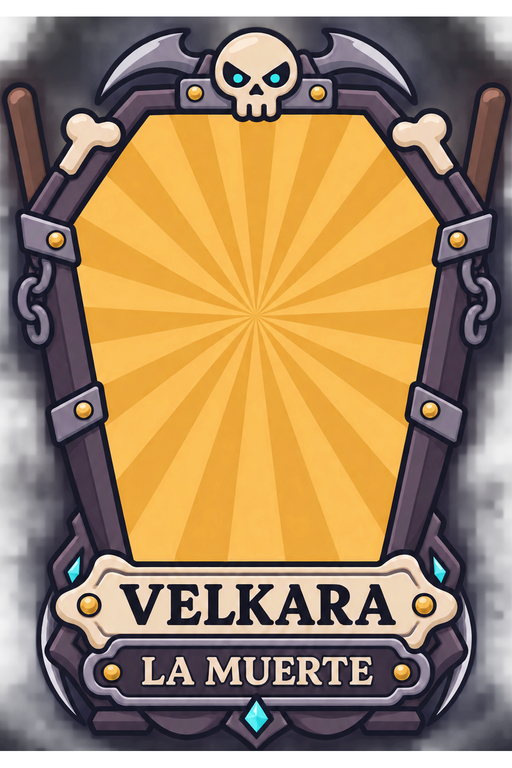
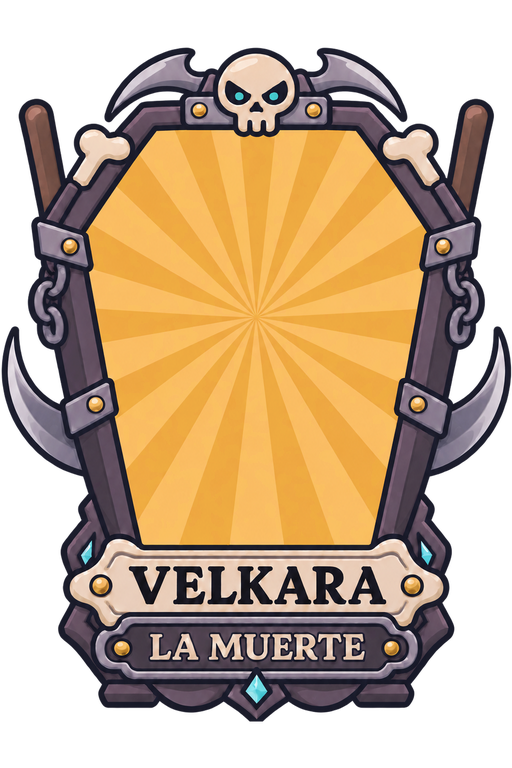
Marcos de 11 unidades más; marcos animados de Zero y Rhysida; Velkara con su marco nuevo
Claude-Session: https://claude.ai/code/session_01JNP7QCwsBCjLSMGndzwo2W

diff --git a/docs/index.html b/docs/index.html
@@ -7948,9 +7948,20 @@ const MARCOS = {
   acorazado: { st: [20.9, 37.1, 58.1, 45.0], z: 1.36 },
   kungfu: { st: [14.2, 28.2, 71.5, 55.6] },
   samurai: { st: [22.3, 24.2, 55.3, 52.5], z: 1.12 },
-  muerte: { st: [16.4, 15.9, 67.4, 56.1], dx: 8 },
+  muerte: { st: [18.8, 17.9, 62.4, 51.9], dx: 8 },
   lobo: { st: [17.2, 19.0, 65.5, 54.8] },
   pistolero: { st: [17.3, 33.5, 65.3, 55.0], z: 1.12 },
+  ivo: { st: [16.1, 40.4, 67.9, 47.3] },
+  mira: { st: [15.8, 26.4, 67.8, 53.7] },
+  rufo: { st: [14.7, 39.9, 70.4, 49.2] },
+  valdrys: { st: [15.2, 35.7, 69.5, 48.5] },
+  ezra: { st: [16.6, 28.4, 66.4, 44.4] },
+  zero: { st: [14, 22, 70, 50], frames: 5, anim: 'sombra' },
+  rhysida: { st: [18.8, 19.8, 62.2, 49.9], frames: 4, anim: 'glitch' },
+  honderillo: { st: [18.8, 21.9, 62.4, 58.9] },
+  grises: { st: [14.6, 27.7, 68.3, 55.5] },
+  ignis: { st: [17.2, 33.2, 65.5, 55.7] },
+  nivea: { st: [16.4, 26.6, 67.1, 52.8] },
 };
 const BARRA_RAR = { comun: 'comun', poco: 'poco', rara: 'rara', epica: 'epica', legendaria: 'legendaria', ascendida: 'ascendida' };
 const GAL = { on: false, sc: null, u: new Map() };
@@ -7959,7 +7970,7 @@ function tarjetaHtml(k) {
   const has = owned().includes(k), rar = RARITY[k] || 'comun', [nm, ep] = nombreEpiteto(k), marco = MARCOS[k];
   const c = has ? rkCoste(k) : null, cp = has ? copiasOf(k) : 0, lv = has ? lvOf(k) : 1, r = has ? rangoOf(k) : 0;
   return '<button type="button" class="tc ' + rar + (has ? '' : ' lock') + (marco ? ' marco' : '') + (has && puedeRango(k) ? ' up' : '') + '" data-k="' + k + '" aria-label="' + (NAMES[k] || k) + (has ? ', nivel ' + lv + ', rango ' + RANGOS[r] : ', bloqueada') + '">'
-    + '<span class="tc-fr"' + (marco ? ' style="background-image:url(img/marcos/' + k + '.png)"' : '') + '>'
+    + '<span class="tc-fr"' + (marco ? ' data-marco="' + k + '" style="background-image:url(img/marcos/' + k + '.png)"' : '') + '>'
     + (marco ? '' : '<span class="tc-nm"><b>' + (has ? nm : '¿?') + '</b>' + (has && ep ? '<small>' + ep + '</small>' : '') + '</span>')
     + '<span class="tc-stage"' + (marco ? ' style="left:' + marco.st[0] + '%;top:' + marco.st[1] + '%;width:' + marco.st[2] + '%;height:' + marco.st[3] + '%"' : '') + '></span></span>'
     + '<span class="tc-cost"><img src="img/tarjetas/coste.png" alt=""><b>' + COST[k] + '</b></span>'
@@ -8016,6 +8027,23 @@ function filtrosHtml() {
   $('f-inv').onclick = () => { FILTRO.inv = !FILTRO.inv; guarda(); };
   $('f-reset').onclick = () => { FILTRO = { rar: '', rk: '', tipo: '', est: '', cost: '', ord: 'coste', inv: false }; guarda(); };
 }
+// marcos animados: Zero (la sombra se desplaza, 5 dibujos en vaivén) y Rhysida (interferencias: casi siempre el limpio y,
+// de vez en cuando, un parpadeo rápido por los que tienen interferencias)
+const MARCO_ANIM = { t: 0 };
+const marcoSrc = (k, i) => 'url(img/marcos/' + k + (i ? '_' + i : '') + '.png)';
+setInterval(() => {
+  MARCO_ANIM.t++;
+  for (const k in MARCOS) {
+    const M = MARCOS[k]; if (!M.frames) continue;
+    let i;
+    if (M.anim === 'sombra') { const n = M.frames, q = Math.floor(MARCO_ANIM.t / 3) % (2 * n - 2); i = q < n ? q : 2 * n - 2 - q; }
+    else { const q = MARCO_ANIM.t % 14; i = q < 3 ? 1 + (Math.floor(MARCO_ANIM.t / 14) + q) % (M.frames - 1) : 0; }
+    if (M.cur === i) continue; M.cur = i;
+    document.querySelectorAll('[data-marco="' + k + '"]').forEach(e => { e.style.backgroundImage = marcoSrc(k, i); });
+  }
+}, 80);
+// los dibujos del marco animado se cargan antes, para que no parpadeen al cambiar
+for (const k in MARCOS) for (let i = 1; i < (MARCOS[k].frames || 0); i++) { const im = new Image(); im.src = 'img/marcos/' + k + '_' + i + '.png'; }
 const _showGal = show;
 show = function (id) { _showGal(id); if (id !== 'ejercito') galStop(); else if (GAL.on) galWake(); };
 function galWake() { const gm = window.__game; if (gm && gm.loop && !gm.loop.running) gm.loop.wake(); }
@@ -8075,7 +8103,7 @@ const MARCO_PROV = { st: [12, 34, 76, 54] };
 function tmInner(k, has = true) {
   const m = MARCOS[k] || MARCO_PROV, [nm, ep] = nombreEpiteto(k), pc = v => (+v.toFixed(2)) + '%', z = m.z || 1, [l, t, w, h] = m.st;
   const L = l - w * (z - 1) / 2 + w * (m.dx || 0) / 100, T = t - h * (z - 1) + h * (m.dy || 0) / 100;   // agrandada desde los pies
-  return '<span class="tm-fr"' + (MARCOS[k] ? ' style="background-image:url(img/marcos/' + k + '.png)"' : '') + '></span>'
+  return '<span class="tm-fr"' + (MARCOS[k] ? ' data-marco="' + k + '" style="background-image:url(img/marcos/' + k + '.png)"' : '') + '></span>'
     + (MARCOS[k] ? '' : '<span class="tm-nm"><b>' + (has ? nm : '¿?') + '</b>' + (has && ep ? '<small>' + ep + '</small>' : '') + '</span>')
     + '<img class="tm-u" data-ret="' + k + '" src="' + (RETRATO[k] || PIXEL) + '" alt="" style="left:' + pc(L) + ';top:' + pc(T) + ';width:' + pc(w * z) + ';height:' + pc(h * z) + (z > 1.3 || m.clip ? ';clip-path:inset(0 ' + pc(Math.max(0, (L + w * z - l - w - 4) / (w * z) * 100)) + ' ' + pc(m.clip ? Math.max(0, (T + h * z - t - h) / (h * z) * 100) : 0) + ' ' + pc(Math.max(0, (l - 4 - L) / (w * z) * 100)) + ')' : '') + '">'
     + '<span class="tm-cost"><b>' + COST[k] + '</b></span>';

diff --git a/prototipos/batalla/galeria.js b/prototipos/batalla/galeria.js
@@ -22,9 +22,20 @@ const MARCOS = {
   acorazado: { st: [20.9, 37.1, 58.1, 45.0], z: 1.36 },
   kungfu: { st: [14.2, 28.2, 71.5, 55.6] },
   samurai: { st: [22.3, 24.2, 55.3, 52.5], z: 1.12 },
-  muerte: { st: [16.4, 15.9, 67.4, 56.1], dx: 8 },
+  muerte: { st: [18.8, 17.9, 62.4, 51.9], dx: 8 },
   lobo: { st: [17.2, 19.0, 65.5, 54.8] },
   pistolero: { st: [17.3, 33.5, 65.3, 55.0], z: 1.12 },
+  ivo: { st: [16.1, 40.4, 67.9, 47.3] },
+  mira: { st: [15.8, 26.4, 67.8, 53.7] },
+  rufo: { st: [14.7, 39.9, 70.4, 49.2] },
+  valdrys: { st: [15.2, 35.7, 69.5, 48.5] },
+  ezra: { st: [16.6, 28.4, 66.4, 44.4] },
+  zero: { st: [14, 22, 70, 50], frames: 5, anim: 'sombra' },
+  rhysida: { st: [18.8, 19.8, 62.2, 49.9], frames: 4, anim: 'glitch' },
+  honderillo: { st: [18.8, 21.9, 62.4, 58.9] },
+  grises: { st: [14.6, 27.7, 68.3, 55.5] },
+  ignis: { st: [17.2, 33.2, 65.5, 55.7] },
+  nivea: { st: [16.4, 26.6, 67.1, 52.8] },
 };
 const BARRA_RAR = { comun: 'comun', poco: 'poco', rara: 'rara', epica: 'epica', legendaria: 'legendaria', ascendida: 'ascendida' };
 const GAL = { on: false, sc: null, u: new Map() };
@@ -33,7 +44,7 @@ function tarjetaHtml(k) {
   const has = owned().includes(k), rar = RARITY[k] || 'comun', [nm, ep] = nombreEpiteto(k), marco = MARCOS[k];
   const c = has ? rkCoste(k) : null, cp = has ? copiasOf(k) : 0, lv = has ? lvOf(k) : 1, r = has ? rangoOf(k) : 0;
   return '<button type="button" class="tc ' + rar + (has ? '' : ' lock') + (marco ? ' marco' : '') + (has && puedeRango(k) ? ' up' : '') + '" data-k="' + k + '" aria-label="' + (NAMES[k] || k) + (has ? ', nivel ' + lv + ', rango ' + RANGOS[r] : ', bloqueada') + '">'
-    + '<span class="tc-fr"' + (marco ? ' style="background-image:url(img/marcos/' + k + '.png)"' : '') + '>'
+    + '<span class="tc-fr"' + (marco ? ' data-marco="' + k + '" style="background-image:url(img/marcos/' + k + '.png)"' : '') + '>'
     + (marco ? '' : '<span class="tc-nm"><b>' + (has ? nm : '¿?') + '</b>' + (has && ep ? '<small>' + ep + '</small>' : '') + '</span>')
     + '<span class="tc-stage"' + (marco ? ' style="left:' + marco.st[0] + '%;top:' + marco.st[1] + '%;width:' + marco.st[2] + '%;height:' + marco.st[3] + '%"' : '') + '></span></span>'
     + '<span class="tc-cost"><img src="img/tarjetas/coste.png" alt=""><b>' + COST[k] + '</b></span>'
@@ -90,6 +101,23 @@ function filtrosHtml() {
   $('f-inv').onclick = () => { FILTRO.inv = !FILTRO.inv; guarda(); };
   $('f-reset').onclick = () => { FILTRO = { rar: '', rk: '', tipo: '', est: '', cost: '', ord: 'coste', inv: false }; guarda(); };
 }
+// marcos animados: Zero (la sombra se desplaza, 5 dibujos en vaivén) y Rhysida (interferencias: casi siempre el limpio y,
+// de vez en cuando, un parpadeo rápido por los que tienen interferencias)
+const MARCO_ANIM = { t: 0 };
+const marcoSrc = (k, i) => 'url(img/marcos/' + k + (i ? '_' + i : '') + '.png)';
+setInterval(() => {
+  MARCO_ANIM.t++;
+  for (const k in MARCOS) {
+    const M = MARCOS[k]; if (!M.frames) continue;
+    let i;
+    if (M.anim === 'sombra') { const n = M.frames, q = Math.floor(MARCO_ANIM.t / 3) % (2 * n - 2); i = q < n ? q : 2 * n - 2 - q; }
+    else { const q = MARCO_ANIM.t % 14; i = q < 3 ? 1 + (Math.floor(MARCO_ANIM.t / 14) + q) % (M.frames - 1) : 0; }
+    if (M.cur === i) continue; M.cur = i;
+    document.querySelectorAll('[data-marco="' + k + '"]').forEach(e => { e.style.backgroundImage = marcoSrc(k, i); });
+  }
+}, 80);
+// los dibujos del marco animado se cargan antes, para que no parpadeen al cambiar
+for (const k in MARCOS) for (let i = 1; i < (MARCOS[k].frames || 0); i++) { const im = new Image(); im.src = 'img/marcos/' + k + '_' + i + '.png'; }
 const _showGal = show;
 show = function (id) { _showGal(id); if (id !== 'ejercito') galStop(); else if (GAL.on) galWake(); };
 function galWake() { const gm = window.__game; if (gm && gm.loop && !gm.loop.running) gm.loop.wake(); }
@@ -149,7 +177,7 @@ const MARCO_PROV = { st: [12, 34, 76, 54] };
 function tmInner(k, has = true) {
   const m = MARCOS[k] || MARCO_PROV, [nm, ep] = nombreEpiteto(k), pc = v => (+v.toFixed(2)) + '%', z = m.z || 1, [l, t, w, h] = m.st;
   const L = l - w * (z - 1) / 2 + w * (m.dx || 0) / 100, T = t - h * (z - 1) + h * (m.dy || 0) / 100;   // agrandada desde los pies
-  return '<span class="tm-fr"' + (MARCOS[k] ? ' style="background-image:url(img/marcos/' + k + '.png)"' : '') + '></span>'
+  return '<span class="tm-fr"' + (MARCOS[k] ? ' data-marco="' + k + '" style="background-image:url(img/marcos/' + k + '.png)"' : '') + '></span>'
     + (MARCOS[k] ? '' : '<span class="tm-nm"><b>' + (has ? nm : '¿?') + '</b>' + (has && ep ? '<small>' + ep + '</small>' : '') + '</span>')
     + '<img class="tm-u" data-ret="' + k + '" src="' + (RETRATO[k] || PIXEL) + '" alt="" style="left:' + pc(L) + ';top:' + pc(T) + ';width:' + pc(w * z) + ';height:' + pc(h * z) + (z > 1.3 || m.clip ? ';clip-path:inset(0 ' + pc(Math.max(0, (L + w * z - l - w - 4) / (w * z) * 100)) + ' ' + pc(m.clip ? Math.max(0, (T + h * z - t - h) / (h * z) * 100) : 0) + ' ' + pc(Math.max(0, (l - 4 - L) / (w * z) * 100)) + ')' : '') + '">'
     + '<span class="tm-cost"><b>' + COST[k] + '</b></span>';

diff --git a/DISENO.md b/DISENO.md
@@ -590,7 +590,7 @@ Arte en bruto en `arte/zero/`; piezas del juego en `docs/img/zero/`.
 
 - Cada unidad tiene su tarjeta: marco, nombre y epíteto, coste (muslo) y, en medio, la unidad de verdad en reposo con su animación.
 - Debajo, la barra del color de su rareza (gris común, verde poco común, azul rara, morado épica, naranja legendaria, rojo ascendida): nivel en el círculo, copias para la siguiente punta en la barra y el escudo de rango a la derecha.
-- Marcos propios (img/marcos/<unidad>.png, 2:3, con el nombre dibujado y el hueco vacío): se registran en `MARCOS` (galeria.js) con el hueco de la unidad y el sitio del coste: el muslo siempre dentro del hueco, en su esquina de arriba a la derecha, sin pisar el marco. Ya tienen marco 17 unidades (Tulio, Ailin, Brynja, Kazú, Odo, Kubi, Elyss, Jhotum, Rodrigo, Fray Tomé, Berta, Gustav, Lin, Hayato, Velkara, Garra y Cole); el hueco de cada marco se mide solo sobre los rayos del fondo y cada figura puede agrandarse (z) o moverse (dx, dy); el muslo del coste va en la esquina de arriba a la izquierda de toda carta, simétrico a la flecha de ascenso; en Tropas, Rhysida va turnando las skins que tengas; las demás llevan el provisional con rayos del color de su rareza.
+- Marcos propios (img/marcos/<unidad>.png, 2:3, con el nombre dibujado y el hueco vacío): se registran en `MARCOS` (galeria.js) con el hueco de la unidad y el sitio del coste: el muslo siempre dentro del hueco, en su esquina de arriba a la derecha, sin pisar el marco. Ya tienen marco 28 unidades; faltan Torque, Anubek, Rhea, Morgana, Tormund, Abaddon, Aurelion, Kaiju Tomo, Nul y X-9. Marcos animados: Zero (5 dibujos, la sombra se desplaza en vaivén) y Rhysida (4: el limpio y parpadeos de interferencia); el hueco de cada marco se mide solo sobre los rayos del fondo y cada figura puede agrandarse (z) o moverse (dx, dy); el muslo del coste va en la esquina de arriba a la izquierda de toda carta, simétrico a la flecha de ascenso; en Tropas, Rhysida va turnando las skins que tengas; las demás llevan el provisional con rayos del color de su rareza.
 - La barra granate con dorado es solo para los héroes ascendidos a S+.
 - Técnica: las tarjetas son HTML; una segunda escena de Phaser ("galeria") dibuja las unidades sobre el lienzo, que en esta pestaña pasa por encima de la pantalla sin recibir toques, y la escena de la batalla se oculta.
 - Fuera el diseño viejo de cartas (marcos por rareza img/esc/marco_*.png, borrados): en toda la app (mano de batalla, mazo, ficha, premios, tienda, cuartel…) las cartas son la tarjeta nueva en pequeño, con el retrato de la unidad de verdad (una foto en reposo que se saca al arrancar).
